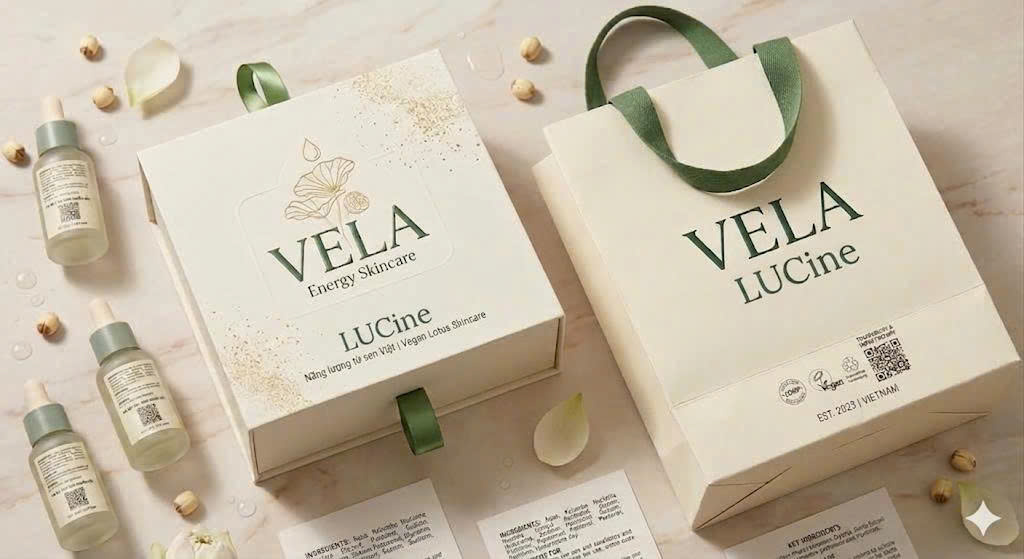
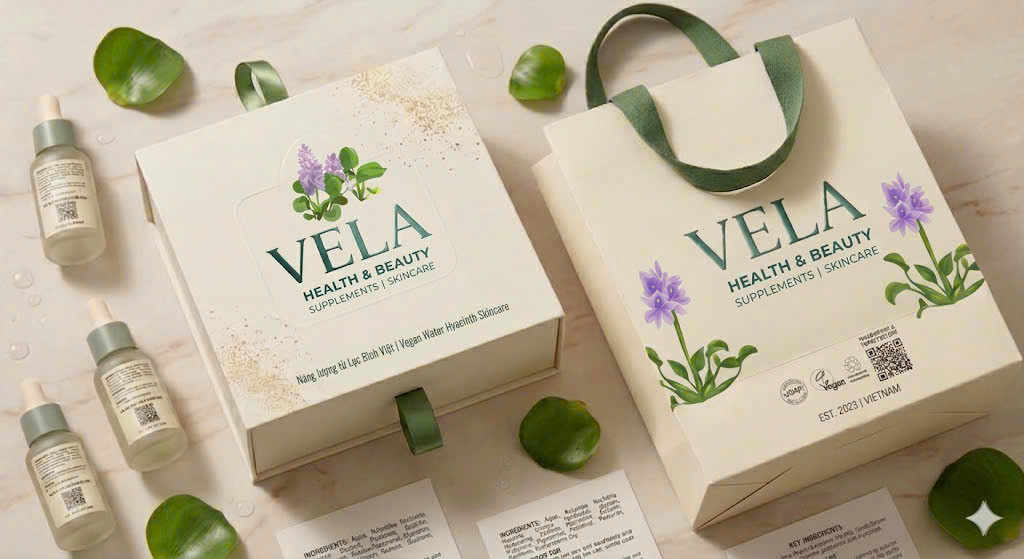
feat: add member photo lightbox + update product images to new assets

diff --git a/index.html b/index.html
@@ -140,7 +140,7 @@
       <!-- VELA -->
       <div class="product-block reveal">
         <div class="product-img-side">
-          <img src="img/nguoi_sai_san_pham.jpg" alt="VELA – Mỹ phẩm từ Sen Việt Nam">
+          <img src="img/Mat_truoc.jpg" alt="VELA – Mỹ phẩm từ Sen Việt Nam">
           <div class="product-img-badge">🪷 Sen Việt Nam</div>
         </div>
         <div class="product-text-side">
@@ -167,7 +167,7 @@
       <!-- LUCine -->
       <div class="product-block product-block-rev reveal">
         <div class="product-img-side">
-          <img src="img/san_pham1.jpg" alt="LUCine – TPCN từ Lục bình">
+          <img src="img/bao_bi_luc_binh.jpg" alt="LUCine – TPCN từ Lục bình">
           <div class="product-img-badge lucine-badge">🌿 Lục bình</div>
         </div>
         <div class="product-text-side">
@@ -190,9 +190,9 @@
 
       <!-- Product gallery -->
       <div class="gallery reveal">
-        <div class="gallery-img"><img src="img/anh_san_pham.jpg" alt="Sản phẩm VELA LUCine"></div>
-        <div class="gallery-img"><img src="img/san_pham2.jpg" alt="VELA SENegry"></div>
-        <div class="gallery-img"><img src="img/bao_bi_sen.jpg" alt="Bao bì VELA Sen"></div>
+        <div class="gallery-img"><img src="img/Mat_sau.jpg" alt="Mặt sau sản phẩm VELA"></div>
+        <div class="gallery-img"><img src="img/bao_bi_sen.jpg" alt="Bao bì Sen VELA"></div>
+        <div class="gallery-img"><img src="img/Logo_San_Pham.jpg" alt="Logo sản phẩm BGC"></div>
       </div>
     </div>
   </section>
@@ -308,7 +308,7 @@
 
       <!-- Leader card full width -->
       <div class="member-card leader-card leader-full reveal">
-        <div class="member-photo member-photo-lg">
+        <div class="member-photo member-photo-lg" onclick="openLightbox('img/Trong_Khang.jpg', 'Nguyễn Phạm Trọng Khang', 'Trưởng nhóm · Quản trị Dữ liệu & Chiến lược')">
           <img src="img/Trong_Khang.jpg" alt="Nguyễn Phạm Trọng Khang"
                onerror="this.style.display='none';this.nextElementSibling.style.display='flex'">
           <div class="photo-fallback" style="display:none">TK</div>
@@ -324,7 +324,7 @@
       <!-- 4 member grid -->
       <div class="team-grid reveal">
         <div class="member-card">
-          <div class="member-photo">
+          <div class="member-photo" onclick="openLightbox('img/Anh_Thinh.jpg', 'Hoàng Phú Thịnh', 'Kinh tế & Vận hành')">
             <img src="img/Anh_Thinh.jpg" alt="Hoàng Phú Thịnh"
                  onerror="this.style.display='none';this.nextElementSibling.style.display='flex'">
             <div class="photo-fallback" style="display:none">PT</div>
@@ -335,7 +335,7 @@
         </div>
 
         <div class="member-card">
-          <div class="member-photo">
+          <div class="member-photo" onclick="openLightbox('img/Chi_Linh.jpg', 'Đặng Khánh Linh', 'Thị trường & PR')">
             <img src="img/Chi_Linh.jpg" alt="Đặng Khánh Linh"
                  onerror="this.style.display='none';this.nextElementSibling.style.display='flex'">
             <div class="photo-fallback" style="display:none">KL</div>
@@ -346,7 +346,7 @@
         </div>
 
         <div class="member-card">
-          <div class="member-photo">
+          <div class="member-photo" onclick="openLightbox('img/Chi_Thu.jpg', 'Trần Thị Minh Thư', 'R&D Hóa dược & QC')">
             <img src="img/Chi_Thu.jpg" alt="Trần Thị Minh Thư"
                  onerror="this.style.display='none';this.nextElementSibling.style.display='flex'">
             <div class="photo-fallback" style="display:none">MT</div>
@@ -357,7 +357,7 @@
         </div>
 
         <div class="member-card">
-          <div class="member-photo">
+          <div class="member-photo" onclick="openLightbox('img/An_Ky.jpg', 'Trần An Kỳ', 'AI & Hệ thống Dữ liệu')">
             <img src="img/An_Ky.jpg" alt="Trần An Kỳ"
                  onerror="this.style.display='none';this.nextElementSibling.style.display='flex'">
             <div class="photo-fallback" style="display:none">AK</div>
@@ -396,6 +396,20 @@
       </div>
     </div>
   </section>
+
+  <!-- ===== LIGHTBOX MODAL ===== -->
+  <div id="lightbox" class="lightbox" onclick="closeLightbox()">
+    <div class="lightbox-inner" onclick="event.stopPropagation()">
+      <button class="lightbox-close" onclick="closeLightbox()" aria-label="Đóng">✕</button>
+      <div class="lightbox-img-wrap">
+        <img id="lightboxImg" src="" alt="" class="lightbox-img">
+      </div>
+      <div class="lightbox-info">
+        <div class="lightbox-name" id="lightboxName"></div>
+        <div class="lightbox-role" id="lightboxRole"></div>
+      </div>
+    </div>
+  </div>
 
   <script src="script.js"></script>
 </body>

diff --git a/style.css b/style.css
@@ -799,3 +799,109 @@ a { text-decoration: none; }
   .team-grid { gap: 1.25rem; }
   .qr-img { width: 260px; height: 260px; }
 }
+
+/* ==================================
+   LIGHTBOX
+   ================================== */
+.member-photo {
+  cursor: pointer;
+  transition: transform 0.2s ease, box-shadow 0.2s ease !important;
+}
+.member-photo:hover {
+  transform: scale(1.08) !important;
+  box-shadow: 0 0 20px rgba(244,114,182,0.4) !important;
+}
+
+.lightbox {
+  display: none;
+  position: fixed;
+  inset: 0;
+  z-index: 9999;
+  background: rgba(7, 16, 10, 0.88);
+  backdrop-filter: blur(14px);
+  -webkit-backdrop-filter: blur(14px);
+  align-items: center;
+  justify-content: center;
+  padding: 1.25rem;
+  animation: lbFadeIn 0.25s ease;
+}
+.lightbox.active {
+  display: flex;
+}
+@keyframes lbFadeIn {
+  from { opacity: 0; }
+  to   { opacity: 1; }
+}
+
+.lightbox-inner {
+  position: relative;
+  background: linear-gradient(145deg, #111f15, #0a1510);
+  border: 1px solid rgba(244,114,182,0.25);
+  border-radius: 24px;
+  padding: 2rem 1.75rem 1.75rem;
+  max-width: 380px;
+  width: 100%;
+  box-shadow: 0 0 60px rgba(244,114,182,0.15), 0 30px 80px rgba(0,0,0,0.6);
+  animation: lbZoomIn 0.3s cubic-bezier(0.34, 1.56, 0.64, 1);
+  text-align: center;
+}
+@keyframes lbZoomIn {
+  from { transform: scale(0.75); opacity: 0; }
+  to   { transform: scale(1);    opacity: 1; }
+}
+
+.lightbox-close {
+  position: absolute;
+  top: 0.9rem;
+  right: 0.9rem;
+  width: 34px;
+  height: 34px;
+  border-radius: 50%;
+  border: 1px solid rgba(255,255,255,0.12);
+  background: rgba(255,255,255,0.06);
+  color: var(--white);
+  font-size: 1rem;
+  cursor: pointer;
+  display: flex;
+  align-items: center;
+  justify-content: center;
+  transition: background 0.2s, transform 0.2s;
+  line-height: 1;
+}
+.lightbox-close:hover {
+  background: rgba(244,114,182,0.2);
+  transform: rotate(90deg);
+}
+
+.lightbox-img-wrap {
+  width: 220px;
+  height: 220px;
+  border-radius: 50%;
+  overflow: hidden;
+  margin: 0 auto 1.25rem;
+  border: 3px solid rgba(244,114,182,0.5);
+  box-shadow: 0 0 40px rgba(244,114,182,0.3), 0 0 0 6px rgba(244,114,182,0.08);
+}
+.lightbox-img {
+  width: 100%;
+  height: 100%;
+  object-fit: cover;
+  display: block;
+}
+
+.lightbox-info {
+  padding-top: 0.25rem;
+}
+.lightbox-name {
+  font-size: 1.15rem;
+  font-weight: 800;
+  color: var(--white);
+  margin-bottom: 0.3rem;
+}
+.lightbox-role {
+  font-size: 0.8rem;
+  color: var(--green);
+  font-weight: 600;
+  letter-spacing: 0.03em;
+}
+

diff --git a/script.js b/script.js
@@ -44,3 +44,29 @@ document.querySelector('.scroll-cta')?.addEventListener('click', e => {
   e.preventDefault();
   document.querySelector('#about')?.scrollIntoView({ behavior: 'smooth' });
 });
+
+// --- Lightbox for member photos ---
+function openLightbox(src, name, role) {
+  const lb    = document.getElementById('lightbox');
+  const img   = document.getElementById('lightboxImg');
+  const lbName = document.getElementById('lightboxName');
+  const lbRole = document.getElementById('lightboxRole');
+
+  img.src      = src;
+  img.alt      = name;
+  lbName.textContent = name;
+  lbRole.textContent = role;
+
+  lb.classList.add('active');
+  document.body.style.overflow = 'hidden';
+}
+
+function closeLightbox() {
+  document.getElementById('lightbox').classList.remove('active');
+  document.body.style.overflow = '';
+}
+
+// Close lightbox with Escape key
+document.addEventListener('keydown', e => {
+  if (e.key === 'Escape') closeLightbox();
+});
